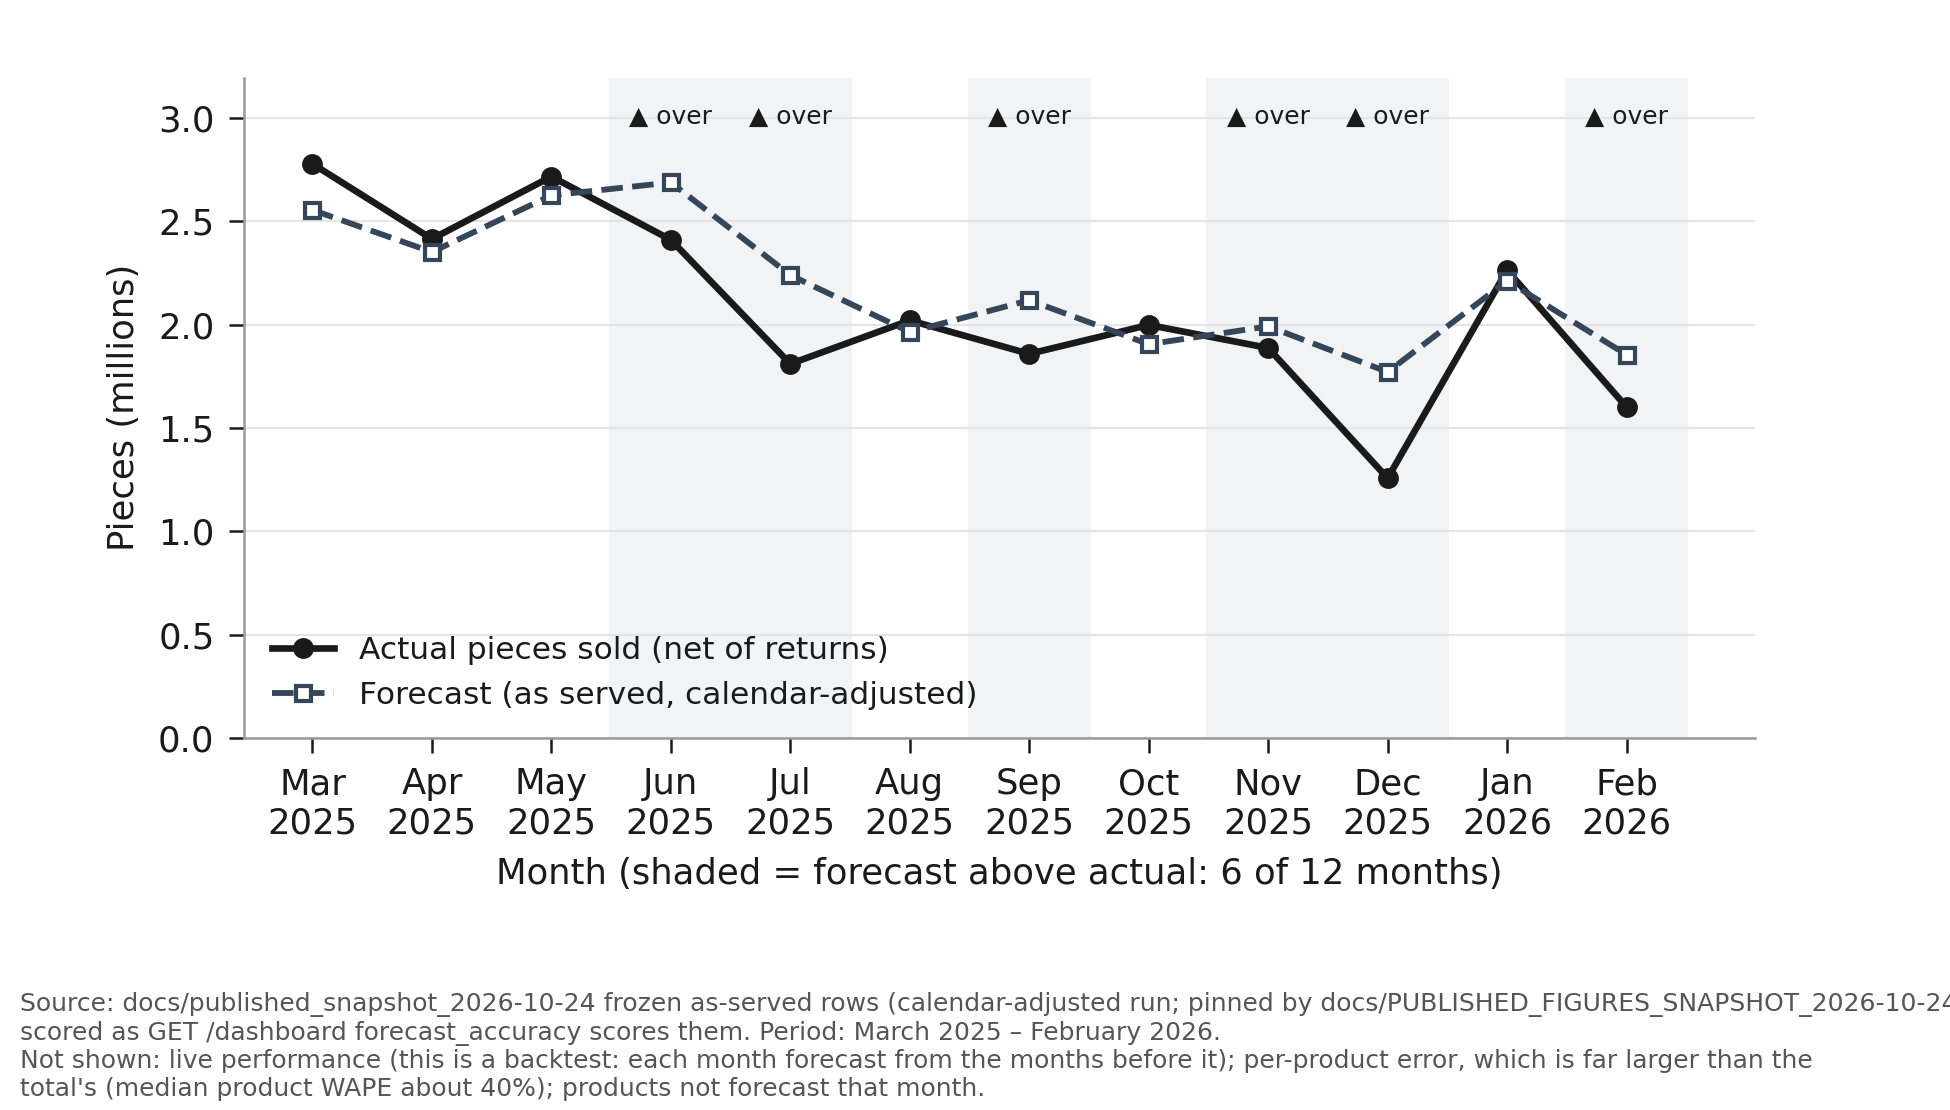
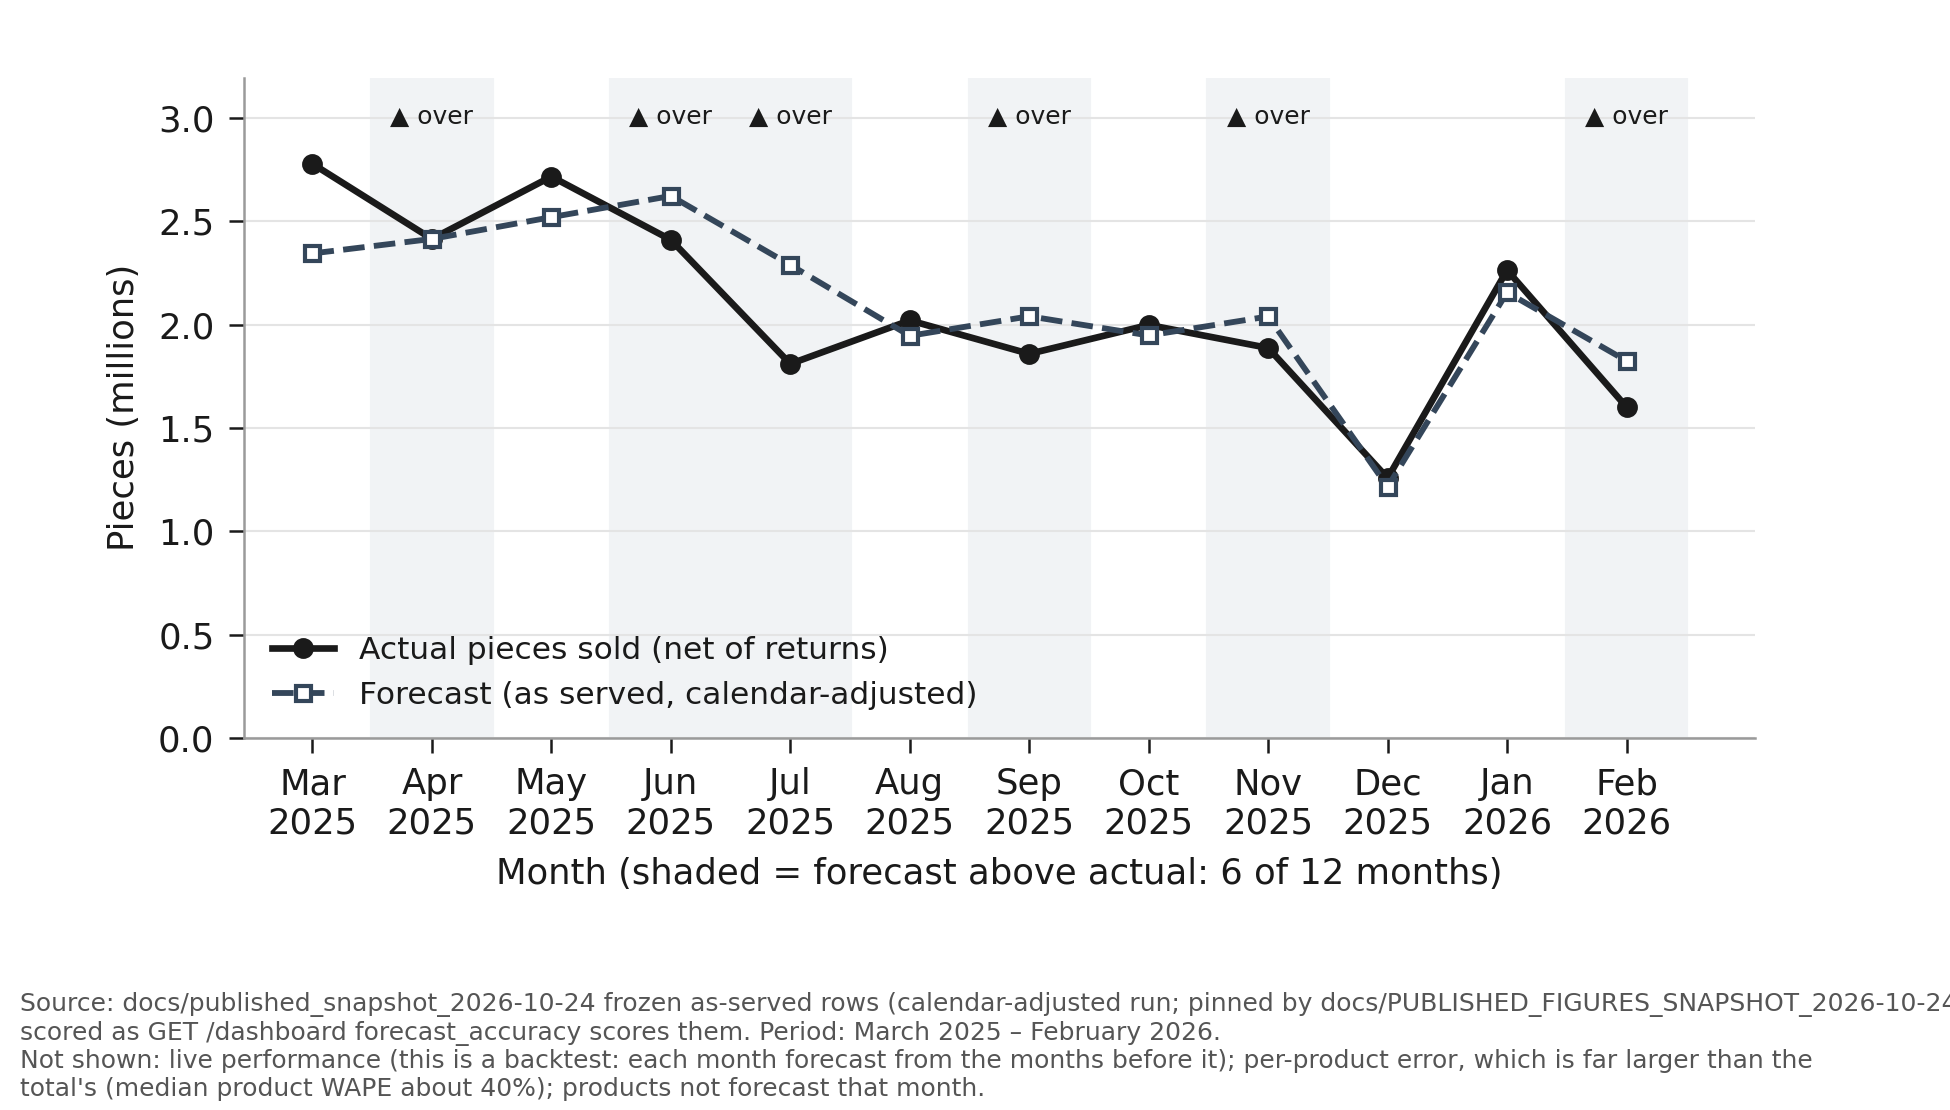
Stopped at the second gate: seven manuscript statements contradicted; figures h-k, p, q redrawn from live; month-load re-rehearsed
manuscript_figures against live (exit 2, same 8 figures held): Table 4.2.18's 2025-04 and 2025-12 direction, its 2025-05 and
2025-06 WAPE and its 2025-05, 2025-07 and 2025-12 shortage agreed with lp_run 9's served backtest and disagree with lp_run 10's.
163b42f had not redrawn figures h-k, p, q (they still read lp_run 9). Not reconcilable in code; chapter text untouched.
Month-load rehearsal on full_backup_20261113T082354Z (live after 0079): 11 of 11 steps exact; attestation rewritten.
Not done after the stop: push, relabel of kelvin/spike-cap and kelvin/forecastability-gate, deletion of kelvin/calendar-grain.

diff --git a/reports/figures/FIGURES.md b/reports/figures/FIGURES.md
@@ -160,8 +160,8 @@ File: `reports/figures/fig_k_mase_distribution.png`
 Caption: Figure 4.2.22 MASE Distribution of the 175 Forecast Products, Unilever Tier A (as of 2026-02). Source: Forecast_Result for March 2026, status ok (frozen in docs/published_snapshot_2026-10-24/mase_rows.csv; pinned figure 'MASE < 1 for 109 of 175'). Period: forecast month March 2026 (served model's rolling one-step holdout, DEC-25). Not shown: the 9 insufficient-data and 5 dead Tier A products (no MASE); which model served each product; the size of each product's sales.
 
 Gate: 1 of 3 checks agree with the manuscript or the edit list.
-- **Disagrees:** MASE below 1: data gives `110`, Table 4.2.15 / pinned states `109`.
-- **Disagrees:** median MASE: data gives `0.823`, §4.2.2.1.3 / pinned states `0.827`.
+- **Disagrees:** MASE below 1: data gives `115`, Table 4.2.15 / pinned states `109`.
+- **Disagrees:** median MASE: data gives `0.755`, §4.2.2.1.3 / pinned states `0.827`.
 
 ### Figure 4.2.24 Half-Year Block Results of 36 Challengers against MA3, by History Bin (HELD)
 
@@ -178,21 +178,23 @@ File: `reports/figures/fig_h_forecast_vs_actual.png`
 
 Caption: Figure 4.2.26 Forecast against Actual Pieces by Month, Unilever (as-served backtest). Source: docs/published_snapshot_2026-10-24 frozen as-served rows (calendar-adjusted run; pinned by docs/PUBLISHED_FIGURES_SNAPSHOT_2026-10-24.json), scored as GET /dashboard forecast_accuracy scores them. Period: March 2025 – February 2026. Not shown: live performance (this is a backtest: each month forecast from the months before it); per-product error, which is far larger than the total's (median product WAPE about 40%); products not forecast that month.
 
-Gate: 22 of 37 checks agree with the manuscript or the edit list.
-- **Disagrees:** 2025-03 forecast: data gives `2554925`, Table 4.2.18 states `2603372`.
-- **Disagrees:** 2025-04 forecast: data gives `2351536`, Table 4.2.18 states `2381632`.
-- **Disagrees:** 2025-05 forecast: data gives `2625601`, Table 4.2.18 states `2626451`.
-- **Disagrees:** 2025-06 forecast: data gives `2687976`, Table 4.2.18 states `2694583`.
-- **Disagrees:** 2025-07 forecast: data gives `2239579`, Table 4.2.18 states `2365326`.
-- **Disagrees:** 2025-08 forecast: data gives `1964264`, Table 4.2.18 states `2125154`.
+Gate: 20 of 37 checks agree with the manuscript or the edit list.
+- **Disagrees:** 2025-03 forecast: data gives `2344756`, Table 4.2.18 states `2603372`.
+- **Disagrees:** 2025-04 forecast: data gives `2414843`, Table 4.2.18 states `2381632`.
+- **Disagrees:** 2025-04 direction: data gives `over`, Table 4.2.18 states `under`.
+- **Disagrees:** 2025-05 forecast: data gives `2520159`, Table 4.2.18 states `2626451`.
+- **Disagrees:** 2025-06 forecast: data gives `2622788`, Table 4.2.18 states `2694583`.
+- **Disagrees:** 2025-07 forecast: data gives `2288874`, Table 4.2.18 states `2365326`.
+- **Disagrees:** 2025-08 forecast: data gives `1946008`, Table 4.2.18 states `2125154`.
 - **Disagrees:** 2025-08 direction: data gives `under`, Table 4.2.18 states `over`.
-- **Disagrees:** 2025-09 forecast: data gives `2118181`, Table 4.2.18 states `2341533`.
-- **Disagrees:** 2025-10 forecast: data gives `1905395`, Table 4.2.18 states `1988739`.
-- **Disagrees:** 2025-11 forecast: data gives `1991783`, Table 4.2.18 states `2082199`.
-- **Disagrees:** 2025-12 forecast: data gives `1771172`, Table 4.2.18 states `1810379`.
-- **Disagrees:** 2026-01 forecast: data gives `2212229`, Table 4.2.18 states `2274480`.
+- **Disagrees:** 2025-09 forecast: data gives `2040539`, Table 4.2.18 states `2341533`.
+- **Disagrees:** 2025-10 forecast: data gives `1947698`, Table 4.2.18 states `1988739`.
+- **Disagrees:** 2025-11 forecast: data gives `2039632`, Table 4.2.18 states `2082199`.
+- **Disagrees:** 2025-12 forecast: data gives `1215264`, Table 4.2.18 states `1810379`.
+- **Disagrees:** 2025-12 direction: data gives `under`, Table 4.2.18 states `over`.
+- **Disagrees:** 2026-01 forecast: data gives `2156233`, Table 4.2.18 states `2274480`.
 - **Disagrees:** 2026-01 direction: data gives `under`, Table 4.2.18 states `over`.
-- **Disagrees:** 2026-02 forecast: data gives `1854382`, Table 4.2.18 states `1887478`.
+- **Disagrees:** 2026-02 forecast: data gives `1824625`, Table 4.2.18 states `1887478`.
 - **Disagrees:** over-forecast months: data gives `6`, edit list item 7 states `8`.
 
 ### Figure 4.2.27 Monthly WAPE in Pieces, Unilever (as-served backtest) (HELD)
@@ -201,17 +203,19 @@ File: `reports/figures/fig_i_monthly_wape.png`
 
 Caption: Figure 4.2.27 Monthly WAPE in Pieces, Unilever (as-served backtest). Source: docs/published_snapshot_2026-10-24 frozen as-served rows (calendar-adjusted run; pinned by docs/PUBLISHED_FIGURES_SNAPSHOT_2026-10-24.json), scored as GET /dashboard forecast_accuracy scores them. Period: March 2025 – February 2026. Not shown: live performance (a backtest); the median product WAPE (35.49% for this window, a different measure); error in pesos; months before March 2025.
 
-Gate: 2 of 12 checks agree with the manuscript or the edit list.
-- **Disagrees:** 2025-03 WAPE (%): data gives `18.7`, Table 4.2.18 states `20.3`.
-- **Disagrees:** 2025-04 WAPE (%): data gives `21.0`, Table 4.2.18 states `22.1`.
-- **Disagrees:** 2025-07 WAPE (%): data gives `40.0`, Table 4.2.18 states `46.9`.
-- **Disagrees:** 2025-08 WAPE (%): data gives `33.5`, Table 4.2.18 states `41.4`.
-- **Disagrees:** 2025-09 WAPE (%): data gives `28.1`, Table 4.2.18 states `40.0`.
-- **Disagrees:** 2025-10 WAPE (%): data gives `40.5`, Table 4.2.18 states `41.7`.
-- **Disagrees:** 2025-11 WAPE (%): data gives `30.3`, Table 4.2.18 states `32.4`.
-- **Disagrees:** 2025-12 WAPE (%): data gives `55.2`, Table 4.2.18 states `58.3`.
-- **Disagrees:** 2026-01 WAPE (%): data gives `45.2`, Table 4.2.18 states `46.4`.
-- **Disagrees:** 2026-02 WAPE (%): data gives `33.8`, Table 4.2.18 states `35.2`.
+Gate: 0 of 12 checks agree with the manuscript or the edit list.
+- **Disagrees:** 2025-03 WAPE (%): data gives `21.6`, Table 4.2.18 states `20.3`.
+- **Disagrees:** 2025-04 WAPE (%): data gives `21.6`, Table 4.2.18 states `22.1`.
+- **Disagrees:** 2025-05 WAPE (%): data gives `23.3`, Table 4.2.18 states `22.0`.
+- **Disagrees:** 2025-06 WAPE (%): data gives `37.2`, Table 4.2.18 states `37.1`.
+- **Disagrees:** 2025-07 WAPE (%): data gives `40.5`, Table 4.2.18 states `46.9`.
+- **Disagrees:** 2025-08 WAPE (%): data gives `32.6`, Table 4.2.18 states `41.4`.
+- **Disagrees:** 2025-09 WAPE (%): data gives `26.4`, Table 4.2.18 states `40.0`.
+- **Disagrees:** 2025-10 WAPE (%): data gives `40.1`, Table 4.2.18 states `41.7`.
+- **Disagrees:** 2025-11 WAPE (%): data gives `32.7`, Table 4.2.18 states `32.4`.
+- **Disagrees:** 2025-12 WAPE (%): data gives `44.6`, Table 4.2.18 states `58.3`.
+- **Disagrees:** 2026-01 WAPE (%): data gives `43.6`, Table 4.2.18 states `46.4`.
+- **Disagrees:** 2026-02 WAPE (%): data gives `32.0`, Table 4.2.18 states `35.2`.
 
 ### Figure 4.2.28 Surplus against Shortage by Month, Unilever (as-served backtest, pesos) (HELD)
 
@@ -219,28 +223,31 @@ File: `reports/figures/fig_j_surplus_shortage.png`
 
 Caption: Figure 4.2.28 Surplus against Shortage by Month, Unilever (as-served backtest, pesos). Source: docs/published_snapshot_2026-10-24 frozen as-served rows (calendar-adjusted run; pinned by docs/PUBLISHED_FIGURES_SNAPSHOT_2026-10-24.json), scored as GET /dashboard forecast_accuracy scores them. Period: March 2025 – February 2026. Not shown: observed stockouts or overstock (these are forecast misses valued at each product's average selling price, not stock outcomes); live performance; products with no price (net pesos or pieces not positive).
 
-Gate: 3 of 24 checks agree with the manuscript or the edit list.
-- **Disagrees:** 2025-03 surplus: data gives `3036166`, Table 4.2.18 states `3376570`.
-- **Disagrees:** 2025-03 shortage: data gives `3862481`, Table 4.2.18 states `3851955`.
-- **Disagrees:** 2025-04 surplus: data gives `2304184`, Table 4.2.18 states `2486130`.
-- **Disagrees:** 2025-04 shortage: data gives `5096578`, Table 4.2.18 states `4944467`.
-- **Disagrees:** 2025-05 surplus: data gives `2907473`, Table 4.2.18 states `2911738`.
-- **Disagrees:** 2025-06 surplus: data gives `5328474`, Table 4.2.18 states `5365124`.
-- **Disagrees:** 2025-06 shortage: data gives `4494367`, Table 4.2.18 states `4403057`.
-- **Disagrees:** 2025-07 surplus: data gives `6471131`, Table 4.2.18 states `7375371`.
-- **Disagrees:** 2025-08 surplus: data gives `2828328`, Table 4.2.18 states `3848422`.
-- **Disagrees:** 2025-08 shortage: data gives `4296721`, Table 4.2.18 states `4247026`.
-- **Disagrees:** 2025-09 surplus: data gives `3864453`, Table 4.2.18 states `5252297`.
-- **Disagrees:** 2025-09 shortage: data gives `5092534`, Table 4.2.18 states `5056550`.
-- **Disagrees:** 2025-10 surplus: data gives `3903451`, Table 4.2.18 states `4291229`.
-- **Disagrees:** 2025-10 shortage: data gives `7564986`, Table 4.2.18 states `7385082`.
-- **Disagrees:** 2025-11 surplus: data gives `4459017`, Table 4.2.18 states `4944624`.
-- **Disagrees:** 2025-11 shortage: data gives `4089975`, Table 4.2.18 states `3907377`.
-- **Disagrees:** 2025-12 surplus: data gives `9707524`, Table 4.2.18 states `9967556`.
-- **Disagrees:** 2026-01 surplus: data gives `7232970`, Table 4.2.18 states `7527223`.
-- **Disagrees:** 2026-01 shortage: data gives `4624189`, Table 4.2.18 states `4485523`.
-- **Disagrees:** 2026-02 surplus: data gives `6174229`, Table 4.2.18 states `6421262`.
-- **Disagrees:** 2026-02 shortage: data gives `2537737`, Table 4.2.18 states `2481131`.
+Gate: 0 of 24 checks agree with the manuscript or the edit list.
+- **Disagrees:** 2025-03 surplus: data gives `1993512`, Table 4.2.18 states `3376570`.
+- **Disagrees:** 2025-03 shortage: data gives `5483966`, Table 4.2.18 states `3851955`.
+- **Disagrees:** 2025-04 surplus: data gives `2712093`, Table 4.2.18 states `2486130`.
+- **Disagrees:** 2025-04 shortage: data gives `4588932`, Table 4.2.18 states `4944467`.
+- **Disagrees:** 2025-05 surplus: data gives `2533132`, Table 4.2.18 states `2911738`.
+- **Disagrees:** 2025-05 shortage: data gives `4493995`, Table 4.2.18 states `3752116`.
+- **Disagrees:** 2025-06 surplus: data gives `5266140`, Table 4.2.18 states `5365124`.
+- **Disagrees:** 2025-06 shortage: data gives `4775670`, Table 4.2.18 states `4403057`.
+- **Disagrees:** 2025-07 surplus: data gives `6877137`, Table 4.2.18 states `7375371`.
+- **Disagrees:** 2025-07 shortage: data gives `1303087`, Table 4.2.18 states `1509676`.
+- **Disagrees:** 2025-08 surplus: data gives `2706117`, Table 4.2.18 states `3848422`.
+- **Disagrees:** 2025-08 shortage: data gives `4525159`, Table 4.2.18 states `4247026`.
+- **Disagrees:** 2025-09 surplus: data gives `3342069`, Table 4.2.18 states `5252297`.
+- **Disagrees:** 2025-09 shortage: data gives `5674144`, Table 4.2.18 states `5056550`.
+- **Disagrees:** 2025-10 surplus: data gives `4133863`, Table 4.2.18 states `4291229`.
+- **Disagrees:** 2025-10 shortage: data gives `6893667`, Table 4.2.18 states `7385082`.
+- **Disagrees:** 2025-11 surplus: data gives `5163238`, Table 4.2.18 states `4944624`.
+- **Disagrees:** 2025-11 shortage: data gives `4297630`, Table 4.2.18 states `3907377`.
+- **Disagrees:** 2025-12 surplus: data gives `4595887`, Table 4.2.18 states `9967556`.
+- **Disagrees:** 2025-12 shortage: data gives `4556321`, Table 4.2.18 states `1931876`.
+- **Disagrees:** 2026-01 surplus: data gives `5951972`, Table 4.2.18 states `7527223`.
+- **Disagrees:** 2026-01 shortage: data gives `4778130`, Table 4.2.18 states `4485523`.
+- **Disagrees:** 2026-02 surplus: data gives `5393558`, Table 4.2.18 states `6421262`.
+- **Disagrees:** 2026-02 shortage: data gives `2091739`, Table 4.2.18 states `2481131`.
 
 ### Figure 4.2.29 Forecast Error Decomposition by Month, Unilever Tier A (pieces) (HELD)
 
@@ -249,9 +256,9 @@ File: `reports/figures/fig_p_error_decomposition.png`
 Caption: Figure 4.2.29 Forecast Error Decomposition by Month, Unilever Tier A (pieces). Source: docs/published_snapshot_2026-10-24/error_decomposition_row.csv (frozen mart.error_decomposition_row, Tier A, calendar-adjusted as-served backtest; pinned by docs/PUBLISHED_FIGURES_SNAPSHOT_2026-10-24.json). Period: January 2024 – February 2026 (26 scored months), 4,370 Tier A product-months. Not shown: Tier B and C products (Tier A only); pesos (the split is in pieces; the pesos beyond safety stock, ₱38,187,551, are a separate figure); observed stockouts (a miss beyond safety stock is potential exposure, not a recorded stockout); live performance (a backtest).
 
 Gate: 4 of 7 checks agree with the manuscript or the edit list.
-- **Disagrees:** over / absorbed / beyond as published: data gives `(10397753, 4860408, 2811745)`, docs/PUBLISHED_FIGURES_SNAPSHOT_2026-10-24.md states `(12242746, 4847983, 2669295)`.
-- **Disagrees:** months beyond safety stock: data gives `797`, STATE.md headline states `749`.
-- **Disagrees:** pesos beyond safety stock: data gives `40494280`, pinned states `38187551`.
+- **Disagrees:** over / absorbed / beyond as published: data gives `(9389241, 5083650, 3096724)`, docs/PUBLISHED_FIGURES_SNAPSHOT_2026-10-24.md states `(12242746, 4847983, 2669295)`.
+- **Disagrees:** months beyond safety stock: data gives `852`, STATE.md headline states `749`.
+- **Disagrees:** pesos beyond safety stock: data gives `43767343`, pinned states `38187551`.
 
 ### Figure 4.2.30 Concentration of Exposure beyond Safety Stock, Unilever Tier A (HELD)
 
@@ -259,10 +266,10 @@ File: `reports/figures/fig_q_exposure_concentration.png`
 
 Caption: Figure 4.2.30 Concentration of Exposure beyond Safety Stock, Unilever Tier A. Source: docs/published_snapshot_2026-10-24/error_decomposition_row.csv (frozen mart.error_decomposition_row, Tier A, calendar-adjusted as-served backtest; pinned by docs/PUBLISHED_FIGURES_SNAPSHOT_2026-10-24.json). Period: January 2024 – February 2026 (26 scored months). Not shown: Tier B and C products; products with no miss beyond safety stock (not ranked); observed stockouts (exposure is potential, not recorded); pieces.
 
-Chart note: 18 products carry half and 56 carry 80% of the ₱40,494,280 beyond safety stock (217 products have any).
+Chart note: 17 products carry half and 53 carry 80% of the ₱43,767,343 beyond safety stock (218 products have any).
 
 Gate: 0 of 1 checks agree with the manuscript or the edit list.
-- **Disagrees:** pesos beyond safety stock: data gives `40494280`, pinned states `38187551`.
+- **Disagrees:** pesos beyond safety stock: data gives `43767343`, pinned states `38187551`.
 
 ### Figure 4.2.32 Order Plan by Urgency, Unilever (cycle March 2026) (gate: pass)
 

diff --git a/STATE.md b/STATE.md
@@ -6,7 +6,7 @@ plan: rows=115 pieces=330212 cycle=2026-03-01 lp_run=10
    legacy row 4. LIVE since 2026-11-13 08:05 UTC: `python -m scripts.apply_calendar_grain --target-public` from 163b42f (the calendar
    factor computed per product, December rule on; CALENDAR GRAIN below). check.sh --fast GREEN against live afterwards (6 of 6, 67 s,
    13 invariants). lp_run 10 has ONE meaning in this repo: this plan. The rehearsal plans of the two unapplied branches are relabelled
-   SPIKE-COPY (kelvin/spike-cap, 116 / 295,210) and GATE-COPY (kelvin/forecastability-gate, 114 / 335,800); neither was ever live.
+   SPIKE-COPY (kelvin/spike-cap, 116 / 295,210) and GATE-COPY (kelvin/forecastability-gate, 114 / 335,800) in this branch; neither was ever live (the two branches themselves are not yet relabelled, see the GATE note below).
    Was lp_run 9 (110 / 378,700 / 67 >0 / SS 459,359.47, live 2026-11-11 12:52 UTC to 2026-11-13, the final bundle); lp_run 8
    110 / 381,484, lp_run 7 110 / 419,344, lp_run 6 109 / 435,988. A re-plan rewrites the cycle's rows in place: lp_run 9's row values
    are in backups/full_backup_20261113T075729Z, its three products that left in reports/lp_runs/retired_2026-03-01_20261113T080859Z.csv
@@ -55,8 +55,17 @@ CALENDAR GRAIN (2026-11-12 build, branch kelvin/calendar-grain 163b42f, fast-for
     March plan  -48,488 pieces = PHP 8.83M -> 7.57M at cost (-1.26M committed); safety stock PHP 5.13M -> 5.20M.
     Assumptions, not SSM figures: storage cost (DEC-44), carrying rate, spoilage (no Unilever figure exists; Del Monte's bad orders are
     0.051% of purchases 2023-09..2025-12), the share of a shortfall never recovered. Measured: margin, pieces, pesos.
-  MONTH-LOAD GATE: scripts/demo_rehearsal.FILES now also hashes what a load runs (ABC, forecast, LP, marts); REHEARSAL_RESULT_PENDING
+  MONTH-LOAD GATE: scripts/demo_rehearsal.FILES now also hashes what a load runs (ABC, forecast, LP, marts); re-rehearsed 2026-11-13 on a restore of backups/full_backup_20261113T082354Z (live after 0079):
+  all 11 steps EXACT (start 115 / 330,212; March 131 / 1,016,754; April 138 rows; both rollbacks back to 115 / 330,212; crash and third-month
+  cases), docs/MONTH_LOAD_REHEARSAL.json rewritten for the new hash.
   Report for the panel: reports/CALENDAR_GRAIN_2026-11-12.md.
+  STOPPED AT THE BRIEF'S SECOND GATE (2026-11-13): python -m scripts.manuscript_figures against live (exit 2, the same 8 figures held,
+  0 table problems) shows seven manuscript statements that agreed with lp_run 9's served backtest and disagree now: Table 4.2.18's 2025-04 and 2025-12 over/under direction (figure 4.2.26), its 2025-05 and 2025-06 monthly WAPE (4.2.27), and its 2025-05, 2025-07 and 2025-12 shortage pesos (4.2.28).
+  The 2026-11-12 re-pin had not redrawn figures h-k, p, q (its FIGURES.md still read lp_run 9's 110 / 0.823); they are redrawn from live
+  in this commit. Not reconcilable in code (they describe the served forecast's backtest). Left for Kelvin, so NOT DONE after the
+  stop: kelvin-be not pushed (team/kelvin-be is at 340c9a5; local is 941fadb..this commit ahead); kelvin/spike-cap and
+  kelvin/forecastability-gate not relabelled (they still state their rehearsal plans as lp_run 10); kelvin/calendar-grain (163b42f,
+  merged into kelvin-be) not deleted.
 
 SPIKE CAP + DECEMBER DIP RULE REFUSED (2026-11-12, Kelvin's recon brief; scored, NOT applied; nothing written to live). The code is
   NOT on this branch: it lives on kelvin/spike-cap (459f299..c100f9a), kept as the record, not to be merged. Its rehearsal plan is

diff --git a/docs/CHAPTER4_MOVED_FIGURES_2026-11-11.md b/docs/CHAPTER4_MOVED_FIGURES_2026-11-11.md
@@ -261,6 +261,8 @@ and 2025). Chosen on criteria fixed before the results (STATE.md).
 | Tests collected / passed (with data/raw); clean clone | 2,828 / 2,810; 2,822 / 2,801 | **2,845 / 2,827; 2,839 / 2,818** (2026-11-13, +1 test for the month-load gate; passed counts derived by chapter_figures --write) |
 
 Manuscript figure checks: Tables 4.2.19 and 4.2.20 pass on the new plan; figures h-l and o-q stay "held" against older manuscript
-values exactly as before (chapter work): every figure's agree/disagree count is the same before (941fadb) and after, so this change
-contradicts no manuscript figure that agreed before. DEC-41's text in ARCHITECTURE.md describes the per-product factor since
+values (chapter work), but NOT exactly as before: drawn from live on 2026-11-13 (163b42f's re-pin had not redrawn figures h-k, p and
+q, which still showed lp_run 9's data), seven manuscript statements that agreed with lp_run 9's served backtest now disagree: Table 4.2.18's 2025-04 and 2025-12 over/under direction (figure 4.2.26), its 2025-05 and 2025-06 monthly WAPE (4.2.27), and its 2025-05, 2025-07 and 2025-12 shortage pesos (4.2.28).
+The served forecast's backtest moved with the method, so no code change reconciles them; the chapter text is the author's. This is
+the 2026-11-13 brief's second gate (STATE.md). DEC-41's text in ARCHITECTURE.md describes the per-product factor since
 2026-11-13. Stored run descriptions of runs 21-23 corrected by migration 0079 (they said "x the company calendar factor").
